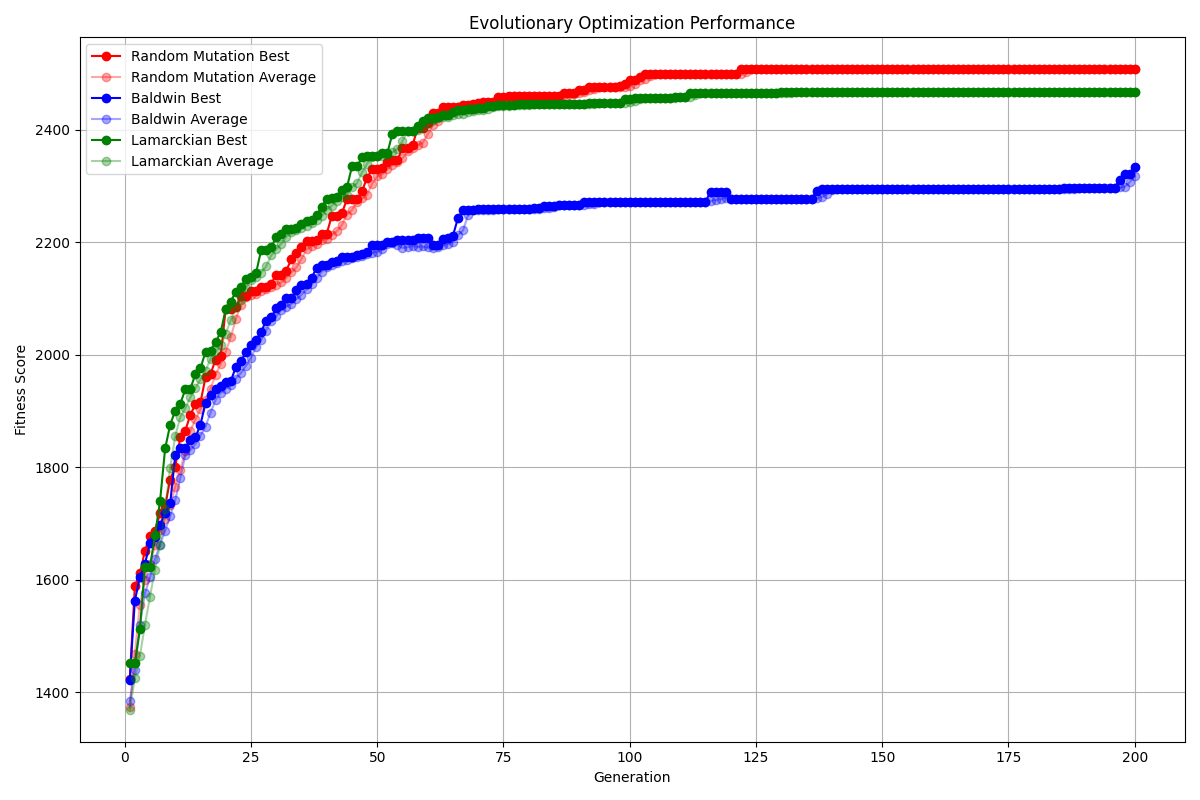
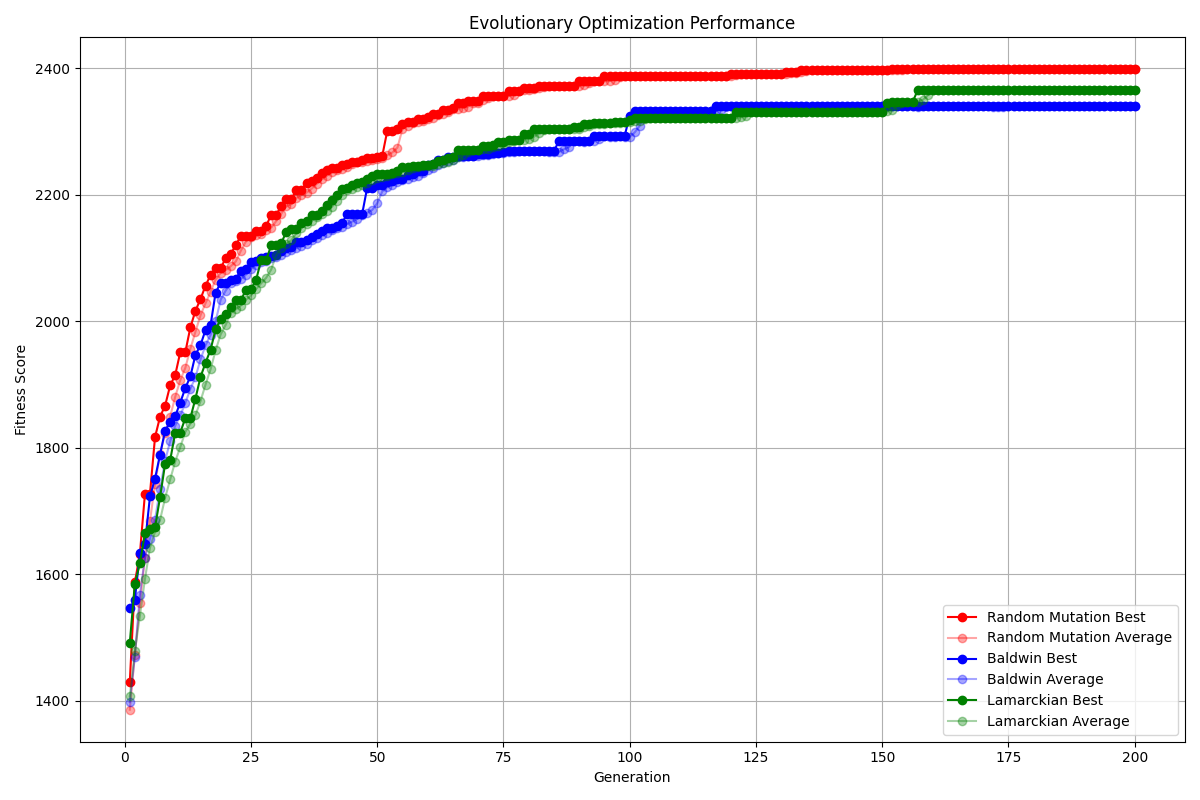
Deleted extra prints

diff --git a/evolutionary_algorithms_version_2/main.py b/evolutionary_algorithms_version_2/main.py
@@ -91,7 +91,7 @@ def run_strategy_simulation(
             max(scores)
         )
 
-        #"""
+        """
         print(
             f"Generation "
             f"{generation+1:>3} | "
@@ -100,7 +100,7 @@ def run_strategy_simulation(
             f"Average top20: "
             f"{avg_score:.3f}"
         )
-        #"""
+        """
 
         tracker.add_generation(
         strategy_name=(